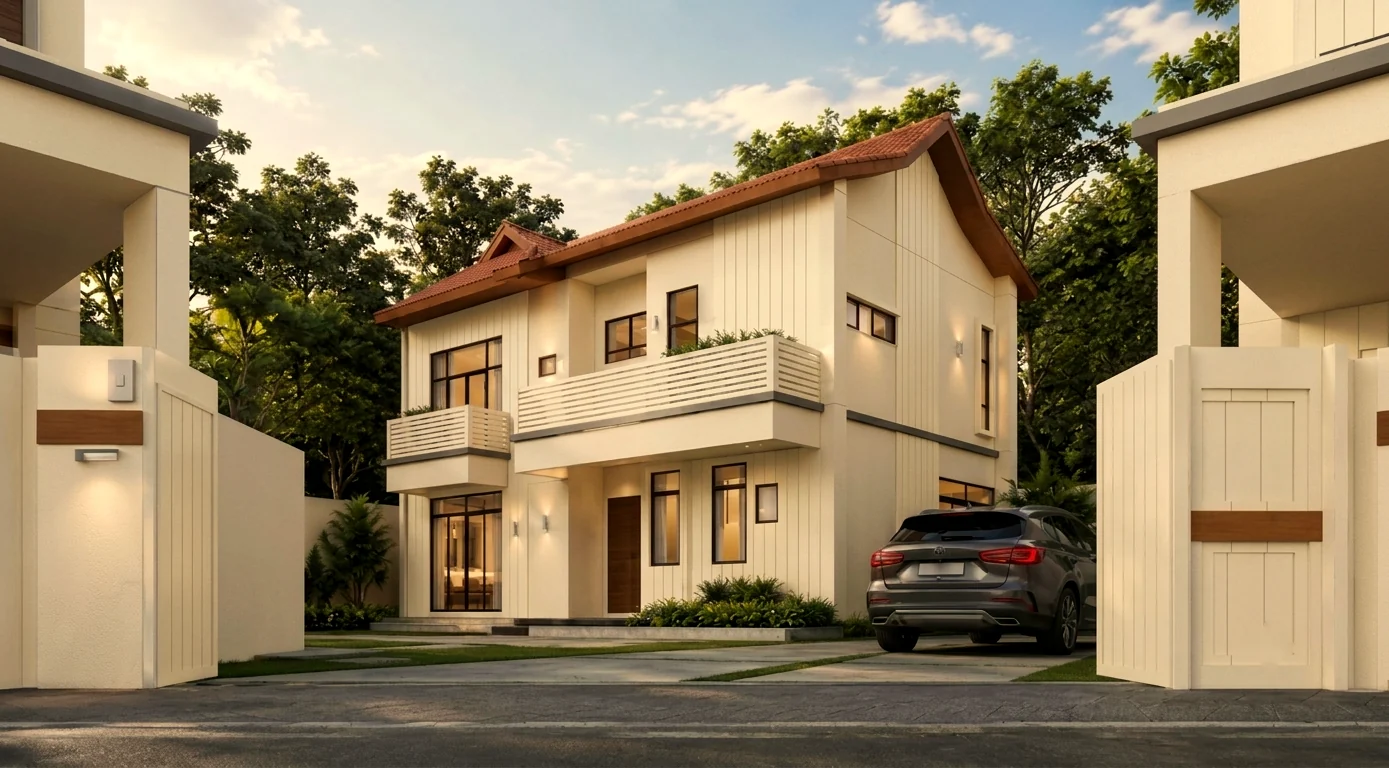
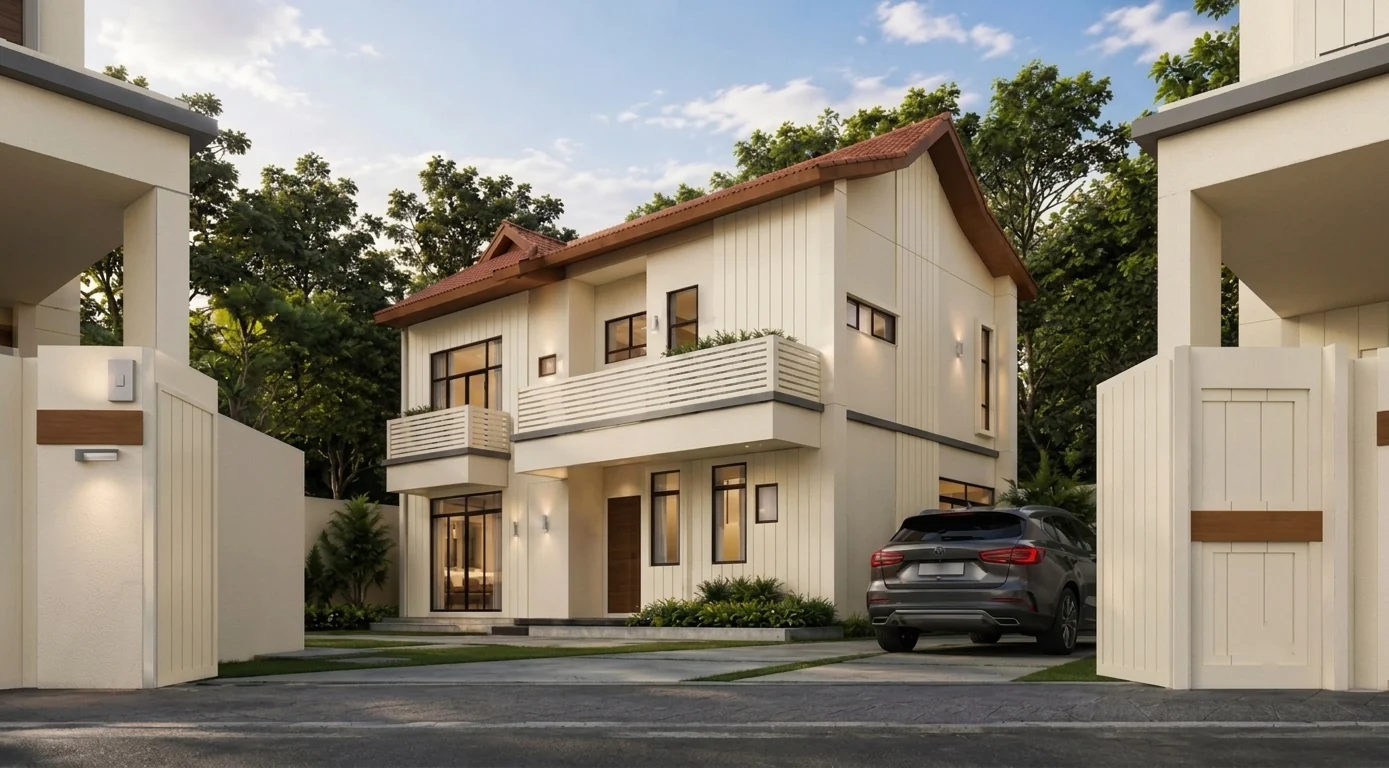
Bungalow render: drop the heavy warm grade, use natural render colour
The golden-hour grade I applied to hero-3 was over-cooked and read
yellow next to the semi-D render (which is un-graded). Re-export the
nl57xd render at its natural colour with just the watermark inpainted;
tone now matches the semi-D neighbour (warmth R-B 21 vs 23). Bump cache
to v7 and drop the now-inaccurate "golden hour" from the alt text.

Changed region(s): [[0.4644, 0.4688, 0.5572, 0.5], [0.743, 0.25, 0.7739, 0.2812]]

diff --git a/index.html b/index.html
@@ -519,7 +519,7 @@
 <section id="bungalow" class="section" data-screen-label="05a Bungalow">
   <div class="wrap">
     <figure class="home-cover" data-reveal>
-      <img src="assets/hero-3.webp?v=6" srcset="assets/hero-3-768.webp?v=6 768w, assets/hero-3-1080.webp?v=6 1080w, assets/hero-3.webp?v=6 1389w" sizes="(min-width: 1200px) 1100px, 100vw" width="1389" height="768" alt="A Panthera Bertam bungalow at golden hour, artist's impression" loading="lazy">
+      <img src="assets/hero-3.webp?v=7" srcset="assets/hero-3-768.webp?v=7 768w, assets/hero-3-1080.webp?v=7 1080w, assets/hero-3.webp?v=7 1389w" sizes="(min-width: 1200px) 1100px, 100vw" width="1389" height="768" alt="A Panthera Bertam bungalow, front elevation and driveway, artist's impression" loading="lazy">
       <div class="home-cover-scrim" aria-hidden="true"></div>
       <div class="home-cover-copy">
         <h2 class="title" data-i18n="h.bungalow.name">The Bungalow</h2>
